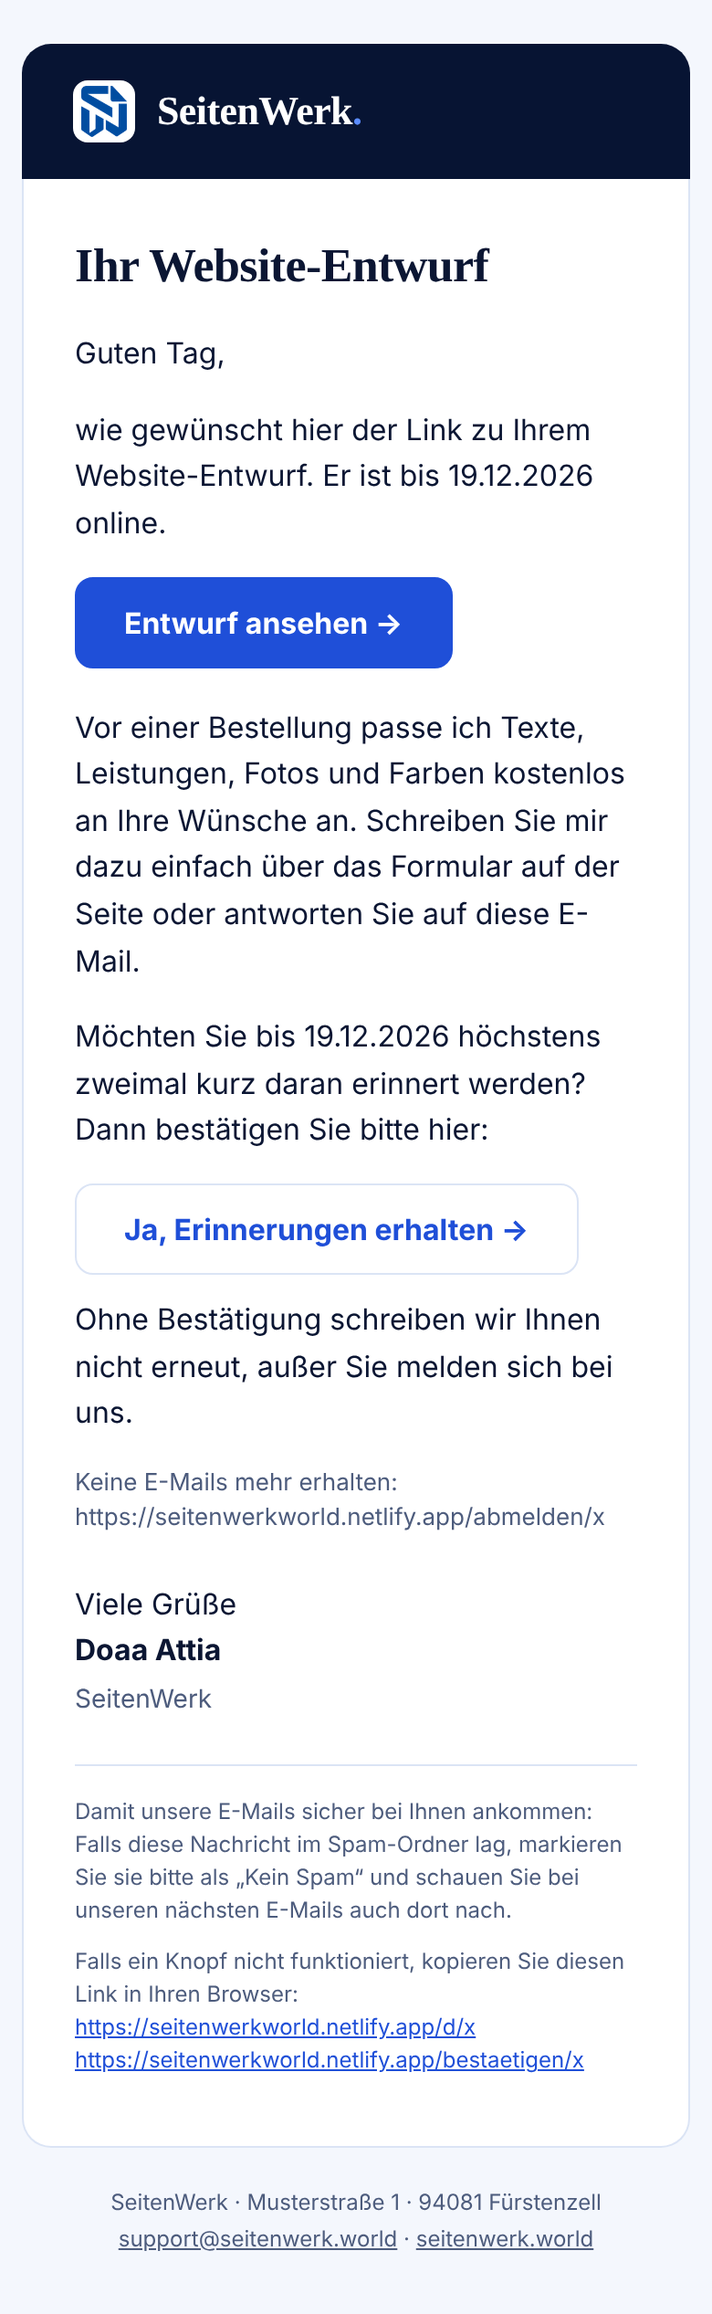
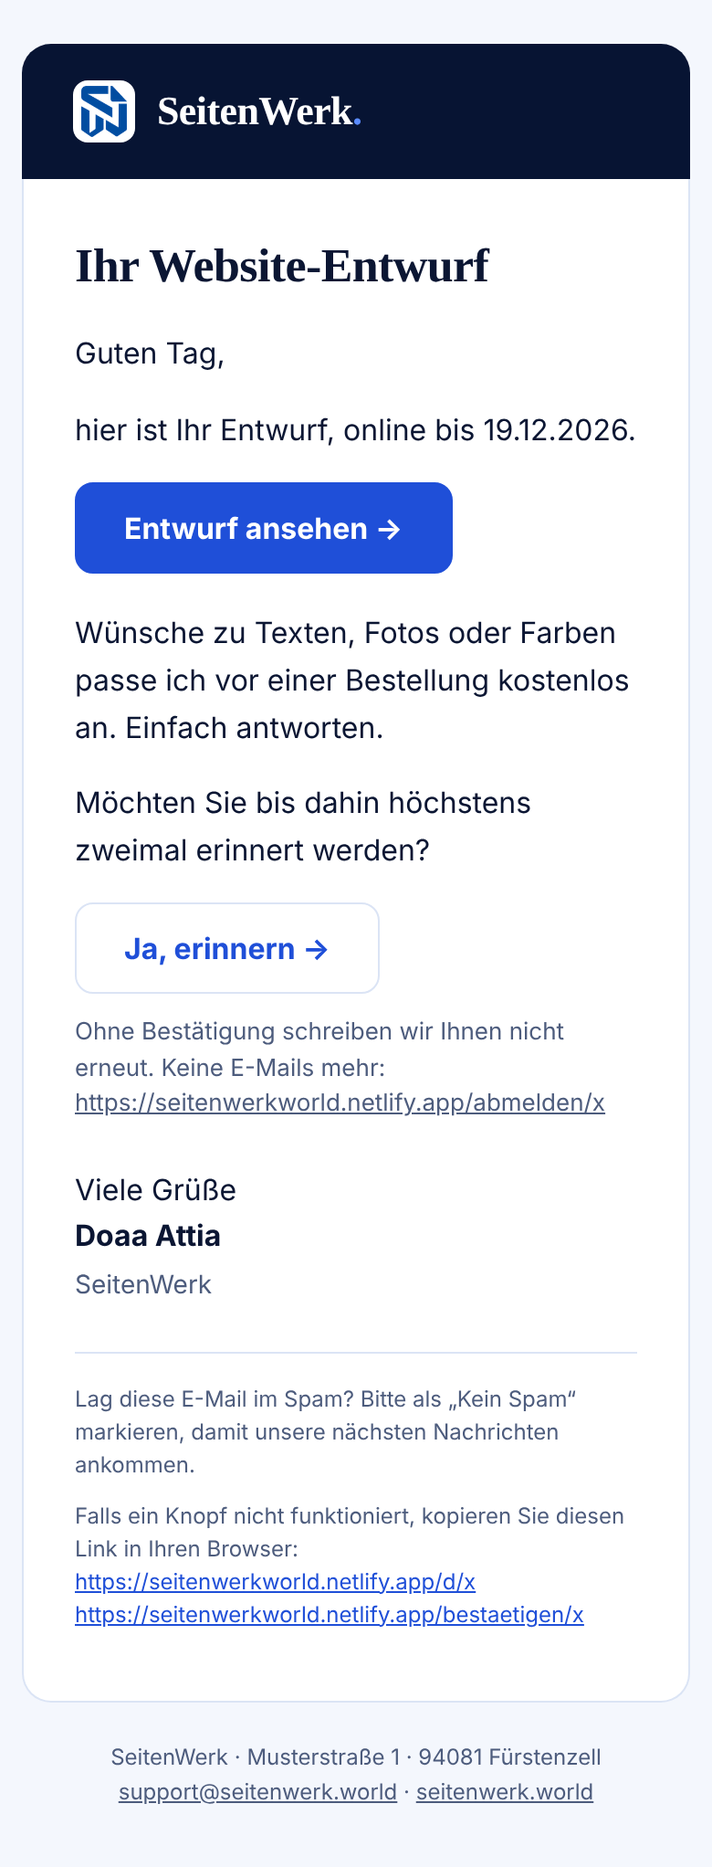
E-Mails deutlich kürzer, Vertragsangaben knapp im Kasten [skip ci] [skip netlify]
Claude-Session: https://claude.ai/code/session_011b6YmAwVYdQU7Uku4m3FhJ

diff --git a/packages/core/src/emails/templates.ts b/packages/core/src/emails/templates.ts
@@ -78,8 +78,7 @@ function signatureText(cfg: AppConfig): string {
   return ['Viele Grüße', s.name, '', '--', s.company, `${s.street}, ${s.postalCode} ${s.city}`, s.email, s.website].join('\n');
 }
 
-export const SPAM_HINT =
-  'Damit unsere E-Mails sicher bei Ihnen ankommen: Falls diese Nachricht im Spam-Ordner lag, markieren Sie sie bitte als „Kein Spam“ und schauen Sie bei unseren nächsten E-Mails auch dort nach.';
+export const SPAM_HINT = 'Lag diese E-Mail im Spam? Bitte als „Kein Spam“ markieren, damit unsere nächsten Nachrichten ankommen.';
 
 export function renderEmail(
   cfg: AppConfig,
@@ -206,63 +205,53 @@ export function orderConfirmationEmail(
     v4?: { tier: 'basis' | 'care_plus' | 'komplett'; monthlyCents: number; billingMode?: 'saved_mandate' | 'manual_checkout' };
   },
 ): EmailContent {
+  // 19.11.2026 (Betreiber: „so viel Text“): kurz, aber alle Vertragsangaben (Preis, Start, Laufzeit, Garantie) bleiben
   const p = cfg.pricing;
-  const terms: Block[] = [];
   const komplett = d.v4?.tier === 'komplett';
-  const box = (t: string): Block => ({ box: t });
+  const terms: string[] = [];
   if (d.v4 && komplett)
-    terms.push(box(
-      `Ihr Tarif SeitenWerk Komplett: Es wurde nichts abgebucht. ${formatEuro(d.v4.monthlyCents)} pro Monat, die erste Abbuchung erfolgt 7 Tage nach Ihrer Bestellung über das bei Stripe gespeicherte Zahlungsmittel. Mindestlaufzeit 12 Monate ab der ersten Abbuchung, danach monatlich kündbar. Für jede Abbuchung erhalten Sie eine eigene Rechnung.`),
+    terms.push(
+      `SeitenWerk Komplett: heute 0 €. ${formatEuro(d.v4.monthlyCents)}/Monat, erste Abbuchung 7 Tage nach Bestellung über Ihr bei Stripe hinterlegtes Zahlungsmittel. 12 Monate Laufzeit ab der ersten Abbuchung, danach monatlich kündbar.`,
     );
   else if (d.v4)
-    terms.push(box(
-      `Einmalige Einrichtung: ${d.amount}. Ihr gewählter Tarif ${v4TierLabel(d.v4.tier)} kostet insgesamt ${formatEuro(d.v4.monthlyCents)} pro Monat. ${d.v4.billingMode === 'saved_mandate' ? 'Das Monatsabo startet automatisch nach bestätigtem Go-Live über das ausdrücklich vereinbarte, bei Stripe gespeicherte Zahlungsmittel.' : 'Das Monatsabo schließen Sie erst nach bestätigtem Go-Live gesondert ab.'} Keine Monatsabbuchung vor Go-Live und keine zwölfmonatige Mindestbindung.`),
+    terms.push(
+      `${v4TierLabel(d.v4.tier)}: ${d.amount} einmalig, danach ${formatEuro(d.v4.monthlyCents)}/Monat ab Go-Live${d.v4.billingMode === 'saved_mandate' ? ' (automatisch über Ihr bei Stripe hinterlegtes Zahlungsmittel)' : ' (das Abo schließen Sie nach Go-Live gesondert ab)'}. Keine Abbuchung vor Go-Live, monatlich kündbar.`,
     );
   if (d.monthlyMinTermEnds)
-    terms.push(box(
-      `Sie zahlen ${d.amount} pro Monat, die Mindestlaufzeit endet am ${d.monthlyMinTermEnds}. Danach kostet „${p.subscriptionName}“ automatisch nur noch ${formatEuro(p.subscriptionCents)} pro Monat und ist monatlich kündbar. Für jede Rate erhalten Sie eine eigene Rechnung.`),
+    terms.push(
+      `${d.amount}/Monat bis ${d.monthlyMinTermEnds} (Mindestlaufzeit), danach ${formatEuro(p.subscriptionCents)}/Monat, monatlich kündbar.`,
     );
   if (d.guaranteeUntil)
-    terms.push(box(
-      `Zufriedenheitsgarantie: Sind Sie nicht zufrieden, antworten Sie bis zum ${d.guaranteeUntil} auf diese E-Mail – Sie bekommen Ihr Geld zurück${d.monthlyMinTermEnds ? ' und der Vertrag endet' : ''}.`),
-    );
+    terms.push(`Nicht zufrieden? Bis ${d.guaranteeUntil} antworten – Sie bekommen Ihr Geld zurück.`);
   return renderEmail(cfg, {
     subject: komplett
       ? `Ihre Bestellung: SeitenWerk Komplett für ${d.company}`
       : `Ihre Bestellung: ${d.v4 ? `SeitenWerk ${v4TierLabel(d.v4.tier)} – Einrichtung` : d.monthlyMinTermEnds ? p.monthlyName : p.packageName} für ${d.company} (Rechnung ${d.invoiceNumber})`,
     heading: 'Danke für Ihre Bestellung',
-    preheader: d.prepared
-      ? 'Ihre Angaben sind übernommen – als Nächstes kommt Ihre Vorschau.'
-      : 'Nächster Schritt: Ihre Angaben für die Website eintragen (ca. 10 Minuten).',
+    preheader: d.prepared ? 'Als Nächstes kommt Ihre Vorschau.' : 'Nächster Schritt: Ihre Angaben eintragen (ca. 10 Minuten).',
     name: d.name,
     blocks: [
       komplett
-        ? 'vielen Dank für Ihre Bestellung – Ihr Zahlungsmittel ist hinterlegt. Bezahlt wird erst, wenn Ihre fertige Website online ist.'
-        : `vielen Dank für Ihre Bestellung – die Zahlung über ${d.amount} ist eingegangen. Die Rechnung ${d.invoiceNumber} finden Sie im Anhang.`,
-      ...terms,
+        ? 'Ihr Zahlungsmittel ist hinterlegt.'
+        : `Ihre Zahlung über ${d.amount} ist eingegangen. Die Rechnung ${d.invoiceNumber} liegt im Anhang.`,
+      ...(terms.length ? [{ box: terms.join('\n') }] : []),
       d.prepared
-        ? 'Ihre vor der Zahlung gespeicherte Einrichtung wurde übernommen: Betriebsdaten, Texte, Bilder, Anfrage-Empfänger und Wunschdomain. Wir bereiten die Vorschau vor; veröffentlicht wird erst nach Ihrer Freigabe.'
-        : 'Damit Ihre Website online gehen kann, brauchen wir noch ein paar Angaben von Ihnen: Impressum, gegebenenfalls Logo und Fotos, Ihre Leistungen und Öffnungszeiten. Das dauert etwa 10 Minuten.',
+        ? 'Ihre gespeicherten Angaben sind übernommen. Wir bereiten jetzt Ihre Vorschau vor.'
+        : 'Jetzt fehlen nur noch Ihre Angaben (Impressum, Leistungen, Öffnungszeiten). Dauer: etwa 10 Minuten.',
       {
         button: {
           href: d.onboardingUrl,
-          label: d.prepared ? 'Einrichtung und Vorschau ansehen' : 'Angaben für die Website eintragen',
+          label: d.prepared ? 'Einrichtung ansehen' : 'Angaben eintragen',
         },
       },
-      'So geht es weiter:',
       {
         steps: [
-          d.prepared
-            ? 'Ihre gespeicherten Angaben bilden die Grundlage für die Fertigstellung.'
-            : 'Sie tragen Ihre Angaben ein (der Link bleibt gültig, Sie können jederzeit weitermachen).',
-          'Wir passen die Website an und schicken Ihnen eine Vorschau.',
-          `Sie geben die Vorschau frei oder wünschen Änderungen (bis zu ${cfg.onboarding.includedChangeRounds} Runden inklusive).`,
-          d.domain
-            ? `Wir registrieren ${d.domain} auf Ihren Namen und schalten die Website live.`
-            : 'Wir registrieren Ihre Domain auf Ihren Namen und schalten die Website live.',
+          d.prepared ? 'Wir stellen die Website fertig' : 'Sie tragen Ihre Angaben ein',
+          `Sie prüfen die Vorschau (${cfg.onboarding.includedChangeRounds} Änderungsrunden inklusive)`,
+          d.domain ? `Wir schalten ${d.domain} live` : 'Wir schalten Ihre Website live',
         ],
       },
-      'Bei Fragen antworten Sie einfach auf diese E-Mail.',
+      'Fragen? Einfach auf diese E-Mail antworten.',
     ],
   });
 }
@@ -273,10 +262,9 @@ export function paymentFailedEmail(cfg: AppConfig, d: { name: string; retryUrl: 
     heading: 'Zahlung nicht abgeschlossen',
     name: d.name,
     blocks: [
-      'leider ist Ihre Zahlung für das Website-Paket nicht bei uns angekommen (zum Beispiel weil die Lastschrift zurückgegeben wurde). Es wurde nichts abgebucht, das Sie nicht zurückerhalten.',
-      'Wenn Sie die Website weiterhin möchten, können Sie die Bestellung hier erneut abschließen:',
-      { button: { href: d.retryUrl, label: 'Bestellung erneut abschließen' } },
-      'Haben Sie Fragen? Antworten Sie einfach auf diese E-Mail.',
+      'leider ist Ihre Zahlung nicht bei uns angekommen, zum Beispiel weil die Lastschrift zurückgegeben wurde. Sie verlieren dabei kein Geld.',
+      { button: { href: d.retryUrl, label: 'Erneut bestellen' } },
+      'Fragen? Einfach auf diese E-Mail antworten.',
     ],
   });
 }
@@ -290,10 +278,7 @@ export function recurringInvoiceEmail(
     subject: `Ihre Rechnung ${d.invoiceNumber}${d.domain ? ` für ${d.domain}` : ''}`,
     heading: 'Zahlung eingegangen',
     name: d.name,
-    blocks: [
-      `vielen Dank – die Zahlung über ${d.amount} für den Zeitraum ${d.period} ist eingegangen. Die Rechnung ${d.invoiceNumber} finden Sie im Anhang.`,
-      'Bei Fragen antworten Sie einfach auf diese E-Mail.',
-    ],
+    blocks: [`danke! ${d.amount} für ${d.period} sind eingegangen. Die Rechnung ${d.invoiceNumber} liegt im Anhang.`],
   });
 }
 
@@ -303,16 +288,12 @@ export function subscriptionPaymentFailedEmail(
   d: { name: string; amount: string; payUrl: string | null; final: boolean; domain: string | null },
 ): EmailContent {
   const blocks: Block[] = [
-    `leider konnte die Monatsrate über ${d.amount}${d.domain ? ` für ${d.domain}` : ''} nicht eingezogen werden – zum Beispiel weil die Karte abgelaufen ist oder die Lastschrift zurückgegeben wurde.`,
+    `die Monatsrate über ${d.amount}${d.domain ? ` für ${d.domain}` : ''} konnte nicht eingezogen werden.`,
     d.final
-      ? 'Wir haben es mehrmals versucht. Damit keine weiteren Kosten entstehen, ist Ihre Website vorübergehend pausiert. Sobald die Zahlung eingegangen ist, ist sie automatisch wieder online.'
-      : 'Wir versuchen es in den nächsten Tagen automatisch noch einmal. Ihre Website bleibt bis dahin online.',
+      ? 'Ihre Website ist deshalb vorübergehend pausiert. Sobald die Zahlung da ist, ist sie automatisch wieder online.'
+      : 'Wir versuchen es in den nächsten Tagen automatisch noch einmal. Ihre Website bleibt online.',
   ];
-  if (d.payUrl)
-    blocks.push('Sie können die Rate auch direkt bezahlen oder Ihr Zahlungsmittel aktualisieren:', {
-      button: { href: d.payUrl, label: 'Rate bezahlen' },
-    });
-  blocks.push('Haben Sie Fragen? Antworten Sie einfach auf diese E-Mail.');
+  if (d.payUrl) blocks.push({ button: { href: d.payUrl, label: 'Rate bezahlen' } });
   return renderEmail(cfg, {
     subject: d.final ? 'Ihre Website ist pausiert – Zahlung ausstehend' : 'Ihre Monatsrate konnte nicht eingezogen werden',
     heading: d.final ? 'Ihre Website ist pausiert' : 'Monatsrate nicht eingezogen',
@@ -327,15 +308,13 @@ export function dunningReminderEmail(
   d: { name: string; stage: 1 | 2; amount: string; domain: string | null; pauseOn: string | null; payUrl: string | null },
 ): EmailContent {
   const blocks: Block[] = [
-    d.stage === 1
-      ? `die Monatsrate über ${d.amount}${d.domain ? ` für ${d.domain}` : ''} konnte auch nach mehreren automatischen Versuchen nicht eingezogen werden.`
-      : `wir erinnern noch einmal an die offene Monatsrate über ${d.amount}${d.domain ? ` für ${d.domain}` : ''}.`,
+    `${d.stage === 1 ? 'die' : 'noch einmal zur'} offene${d.stage === 1 ? '' : 'n'} Monatsrate über ${d.amount}${d.domain ? ` für ${d.domain}` : ''}${d.stage === 1 ? ' konnte nicht eingezogen werden.' : '.'}`,
     d.pauseOn
-      ? `Bitte begleichen Sie die Rate bis zum ${d.pauseOn}. Ist sie bis dahin nicht eingegangen, müssen wir Ihre Website vorübergehend pausieren.`
-      : 'Bitte begleichen Sie die Rate so bald wie möglich.',
+      ? `Bitte bis ${d.pauseOn} bezahlen, sonst müssen wir Ihre Website vorübergehend pausieren.`
+      : 'Bitte bezahlen Sie die Rate so bald wie möglich.',
   ];
   if (d.payUrl) blocks.push({ button: { href: d.payUrl, label: 'Rate bezahlen' } });
-  blocks.push('Gibt es ein Problem mit der Zahlung? Antworten Sie einfach auf diese E-Mail – wir finden eine Lösung.');
+  blocks.push('Gibt es ein Problem? Einfach antworten, wir finden eine Lösung.');
   return renderEmail(cfg, {
     subject: d.stage === 1 ? 'Zahlungserinnerung: offene Monatsrate' : 'Zweite Zahlungserinnerung: offene Monatsrate',
     heading: 'Zahlungserinnerung',
@@ -354,12 +333,11 @@ export function guaranteeRefundEmail(
     heading: 'Rückabwicklung bestätigt',
     name: d.name,
     blocks: [
-      `schade, dass die Website nicht gepasst hat. Wie versprochen erstatten wir Ihnen ${d.amount}${d.monthly ? ' und haben den Vertrag beendet – es werden keine weiteren Raten abgebucht' : ''}. Die Stornorechnung folgt in einer separaten E-Mail.`,
-      'Die Website ist offline genommen.',
+      `wie versprochen erstatten wir Ihnen ${d.amount}${d.monthly ? ', der Vertrag ist beendet' : ''}. Die Website ist offline. Die Stornorechnung kommt separat.`,
       d.domainRegistered
-        ? `Die Domain ${d.domainRegistered} ist auf Ihren Namen registriert. Wir übertragen sie Ihnen gern kostenlos: Antworten Sie einfach auf diese E-Mail, dann schicken wir Ihnen den Auth-Code für den Umzug zu einem Anbieter Ihrer Wahl. Möchten Sie sie nicht behalten, verlängern wir sie nicht${d.domainExpires ? ` – sie läuft dann am ${d.domainExpires} aus` : ''}.`
-        : 'Eine Domain wurde noch nicht registriert, es bleibt also nichts zu tun.',
-      'Vielen Dank, dass Sie es ausprobiert haben.',
+        ? `Die Domain ${d.domainRegistered} gehört Ihnen. Möchten Sie sie behalten, antworten Sie einfach – wir schicken den Code für den Umzug. Sonst läuft sie${d.domainExpires ? ` am ${d.domainExpires}` : ''} aus.`
+        : 'Es wurde noch keine Domain registriert, Sie müssen nichts tun.',
+      'Danke, dass Sie es ausprobiert haben.',
     ],
   });
 }
@@ -375,10 +353,10 @@ export function demoReminderEmail(
     preheader: `Noch bis ${d.expiresLabel} ansehen.`,
     name: d.name ?? '',
     blocks: [
-      `vielen Dank für Ihre Nachricht zu Ihrem Website-Entwurf. Kurz zur Erinnerung: Der Entwurf ist noch bis ${d.expiresLabel} online, danach wird er automatisch gelöscht.`,
+      `kurze Erinnerung: Ihr Website-Entwurf ist noch bis ${d.expiresLabel} online.`,
       { button: { href: d.demoUrl, label: 'Entwurf ansehen' } },
-      'Haben Sie noch Fragen? Antworten Sie einfach auf diese E-Mail. Dies ist die einzige Erinnerung – wir schreiben Ihnen danach nicht mehr.',
-      { small: `Keine Erinnerungen mehr erhalten: ${d.unsubscribeUrl}` },
+      'Das ist die einzige Erinnerung, danach schreiben wir Ihnen nicht mehr.',
+      { small: `Keine Erinnerungen mehr: ${d.unsubscribeUrl}` },
     ],
   });
 }
@@ -391,15 +369,14 @@ export function optinLinkEmail(
   return renderEmail(cfg, {
     subject: `Ihr Website-Entwurf für ${d.businessName}`,
     heading: 'Ihr Website-Entwurf',
-    preheader: `Ihr Link zum Entwurf für ${d.businessName} – online bis ${d.expiresLabel}.`,
+    preheader: `Online bis ${d.expiresLabel}.`,
     blocks: [
-      `wie gewünscht hier der Link zu Ihrem Website-Entwurf. Er ist bis ${d.expiresLabel} online.`,
+      `hier ist Ihr Entwurf, online bis ${d.expiresLabel}.`,
       { button: { href: d.demoUrl, label: 'Entwurf ansehen' } },
-      'Vor einer Bestellung passe ich Texte, Leistungen, Fotos und Farben kostenlos an Ihre Wünsche an. Schreiben Sie mir dazu einfach über das Formular auf der Seite oder antworten Sie auf diese E-Mail.',
-      `Möchten Sie bis ${d.expiresLabel} höchstens zweimal kurz daran erinnert werden? Dann bestätigen Sie bitte hier:`,
-      { button: { href: d.confirmUrl, label: 'Ja, Erinnerungen erhalten', secondary: true } },
-      'Ohne Bestätigung schreiben wir Ihnen nicht erneut, außer Sie melden sich bei uns.',
-      { small: `Keine E-Mails mehr erhalten: ${d.unsubscribeUrl}` },
+      'Wünsche zu Texten, Fotos oder Farben passe ich vor einer Bestellung kostenlos an. Einfach antworten.',
+      'Möchten Sie bis dahin höchstens zweimal erinnert werden?',
+      { button: { href: d.confirmUrl, label: 'Ja, erinnern', secondary: true } },
+      { small: `Ohne Bestätigung schreiben wir Ihnen nicht erneut. Keine E-Mails mehr: ${d.unsubscribeUrl}` },
     ],
   });
 }
@@ -413,11 +390,10 @@ export function optinFollowupEmail(
     subject: 'Passt Ihr Website-Entwurf so?',
     heading: 'Passt Ihr Entwurf so?',
     blocks: [
-      `vor ein paar Tagen haben Sie sich den Link zu Ihrem Website-Entwurf schicken lassen. Er ist noch bis ${d.expiresLabel} online.`,
-      'Falls noch etwas nicht stimmt, zum Beispiel Leistungen, Texte, Fotos oder Farben, passe ich das vor einer Bestellung kostenlos an. Ein kurzer Satz genügt.',
+      `Ihr Entwurf ist noch bis ${d.expiresLabel} online. Soll noch etwas anders sein? Ein kurzer Satz genügt, ich passe es vor einer Bestellung kostenlos an.`,
       { button: { href: d.wishUrl, label: 'Wunsch schicken' } },
       { button: { href: d.demoUrl, label: 'Entwurf ansehen', secondary: true } },
-      { small: `Keine E-Mails mehr erhalten: ${d.unsubscribeUrl}` },
+      { small: `Keine E-Mails mehr: ${d.unsubscribeUrl}` },
     ],
   });
 }
@@ -428,8 +404,7 @@ export function refundEmail(cfg: AppConfig, d: { name: string; amount: string; c
     heading: 'Erstattung veranlasst',
     name: d.name,
     blocks: [
-      `wir haben ${d.amount} an Sie erstattet. Je nach Zahlungsart sehen Sie den Betrag in wenigen Tagen auf Ihrem Konto bzw. Ihrer Kartenabrechnung.`,
-      `Die Stornorechnung ${d.cancellationNumber} finden Sie im Anhang.`,
+      `wir haben ${d.amount} an Sie erstattet. Je nach Zahlungsart sehen Sie den Betrag in wenigen Tagen. Die Stornorechnung ${d.cancellationNumber} liegt im Anhang.`,
     ],
   });
 }
@@ -438,23 +413,18 @@ export function renewalReminderEmail(
   cfg: AppConfig,
   d: { name: string; domain: string | null; hostingUntil: string; subscriptionUrl: string | null },
 ): EmailContent {
-  const price = `${formatEuro(cfg.pricing.subscriptionCents)} pro Monat`;
-  const blocks: Block[] = [
-    `das im Website-Paket enthaltene Hosting für ${d.domain ?? 'Ihre Website'} läuft am ${d.hostingUntil} aus.`,
-  ];
+  const price = `${formatEuro(cfg.pricing.subscriptionCents)}/Monat`;
+  const blocks: Block[] = [`das Hosting für ${d.domain ?? 'Ihre Website'} ist bis ${d.hostingUntil} bezahlt.`];
   if (d.subscriptionUrl) {
-    blocks.push(
-      `Wenn Ihre Website danach online bleiben soll, können Sie „${cfg.pricing.subscriptionName}“ für ${price} buchen (monatlich kündbar). Hosting, SSL, Domain und kleine Textänderungen sind enthalten.`,
-      { button: { href: d.subscriptionUrl, label: `${cfg.pricing.subscriptionName} buchen` } },
-    );
+    blocks.push(`Soll Ihre Website online bleiben? „${cfg.pricing.subscriptionName}“ kostet ${price}, monatlich kündbar.`, {
+      button: { href: d.subscriptionUrl, label: `${cfg.pricing.subscriptionName} buchen` },
+    });
   } else {
     blocks.push(
-      `Wenn Ihre Website danach online bleiben soll, antworten Sie einfach auf diese E-Mail. Wir verlängern dann „${cfg.pricing.subscriptionName}“ für ${price} (monatlich kündbar).`,
+      `Soll Ihre Website online bleiben? Antworten Sie einfach, dann verlängern wir „${cfg.pricing.subscriptionName}“ für ${price} (monatlich kündbar).`,
     );
   }
-  blocks.push(
-    'Möchten Sie nicht verlängern, müssen Sie nichts tun. Die Domain gehört Ihnen – auf Wunsch geben wir sie für einen Umzug zu einem anderen Anbieter frei.',
-  );
+  blocks.push('Kein Interesse? Dann müssen Sie nichts tun. Die Domain gehört Ihnen.');
   return renderEmail(cfg, {
     subject: `Ihr Hosting für ${d.domain ?? 'Ihre Website'} läuft am ${d.hostingUntil} aus`,
     heading: 'Ihr Hosting läuft bald aus',
@@ -480,15 +450,13 @@ export function previewReadyEmail(
   return renderEmail(cfg, {
     subject: d.firstVersion ? 'Ihre Website-Vorschau ist fertig' : 'Ihre geänderte Website-Vorschau ist fertig',
     heading: d.firstVersion ? 'Ihre Vorschau ist fertig' : 'Ihre neue Vorschau ist fertig',
-    preheader: 'Ansehen, freigeben oder Änderungen wünschen – mit einem Klick.',
+    preheader: 'Ansehen und mit einem Klick freigeben.',
     name: d.name,
     blocks: [
-      d.firstVersion
-        ? 'Ihre Website ist fertig vorbereitet – mit Ihren Angaben, Texten und Bildern. Bitte schauen Sie sich die Vorschau in Ruhe an.'
-        : 'wir haben Ihre Änderungswünsche eingearbeitet. Bitte schauen Sie sich die neue Vorschau an.',
+      d.firstVersion ? 'Ihre Website ist fertig vorbereitet.' : 'Ihre Änderungswünsche sind eingearbeitet.',
       ...(d.summary ? [d.summary] : []),
       { button: { href: d.previewUrl, label: 'Vorschau ansehen' } },
-      `Passt alles, geben Sie die Seite mit einem Klick frei – dann registrieren wir Ihre Domain und schalten die Website live. Möchten Sie noch etwas ändern, beschreiben Sie es einfach auf der Vorschauseite (noch ${d.roundsLeft} Änderungsrunde${d.roundsLeft === 1 ? '' : 'n'} inklusive).`,
+      `Passt alles? Mit einem Klick freigeben, dann geht sie live. Sonst Änderungen direkt dort eintragen (noch ${d.roundsLeft} Runde${d.roundsLeft === 1 ? '' : 'n'} inklusive).`,
     ],
   });
 }
@@ -510,20 +478,16 @@ export function liveHandoverEmail(
     preheader: `Ab sofort erreichbar: ${d.domain ?? d.url}`,
     name: d.name,
     blocks: [
-      `Ihre Website ist ab sofort online: ${d.url}`,
       { button: { href: d.url, label: 'Website ansehen' } },
       {
         checks: [
-          d.domain
-            ? `Die Domain ${d.domain} ist auf Sie registriert und gehört Ihnen.`
-            : 'Ihre Website ist unter der oben genannten Adresse erreichbar.',
-          `Nachrichten aus dem Kontaktformular gehen an ${d.formTarget}.`,
+          d.domain ? `Die Domain ${d.domain} gehört Ihnen` : `Erreichbar unter ${d.url}`,
+          `Anfragen aus dem Formular gehen an ${d.formTarget}`,
           d.monthlyOffer
             ? d.monthlyOffer.automatic
-              ? `Ihr gewählter Monatstarif von insgesamt ${formatEuro(d.monthlyOffer.amountCents)} wird nach bestätigtem Go-Live über das vereinbarte Zahlungsmittel gestartet. Zahlungsstatus, Tarifwechsel und Kündigung finden Sie über den Verwaltungslink. Die Vorschauzeit bleibt unberechnet.`
-              : `Ihr Monatstarif kostet insgesamt ${formatEuro(d.monthlyOffer.amountCents)}. Bitte bestätigen Sie jetzt den separaten Aboabschluss; erst damit beginnt die monatliche Zahlung. Es gibt keine rückwirkende Abbuchung für die Vorschauzeit.`
-            : `Hosting und SSL-Verschlüsselung sind bis ${d.hostingUntil} enthalten. Wir erinnern Sie rechtzeitig vor Ablauf.`,
-          'Impressum und Datenschutzerklärung stammen aus Ihren Angaben – bitte halten Sie sie aktuell und geben Sie uns Bescheid, wenn sich etwas ändert.',
+              ? `Monatstarif ${formatEuro(d.monthlyOffer.amountCents)} startet jetzt automatisch`
+              : `Monatstarif ${formatEuro(d.monthlyOffer.amountCents)}: bitte unten bestätigen, erst dann wird abgebucht`
+            : `Hosting und SSL bis ${d.hostingUntil} inklusive`,
         ],
       },
       ...(d.monthlyOffer
@@ -537,8 +501,7 @@ export function liveHandoverEmail(
             },
           ]
         : []),
-      'Kleine Textänderungen oder neue Öffnungszeiten? Antworten Sie einfach auf diese E-Mail.',
-      'Vielen Dank für Ihr Vertrauen!',
+      'Änderungen am Impressum oder neue Öffnungszeiten? Einfach antworten. Danke für Ihr Vertrauen!',
     ],
   });
 }

diff --git a/packages/core/src/services/support.ts b/packages/core/src/services/support.ts
@@ -304,8 +304,8 @@ export async function processSupportMessage(id: string): Promise<{ status: strin
         subject: 'Bestätigung: Wir schreiben Ihnen nicht mehr',
         heading: 'Wir schreiben Ihnen nicht mehr',
         blocks: [
-          'vielen Dank für Ihre Nachricht. Wir haben Ihren Widerspruch umgesetzt: Sie erhalten von uns keine weitere Post, Ihr Website-Entwurf und die zugehörigen Daten werden gelöscht.',
-          'Damit wir Sie auch künftig nicht erneut anschreiben, speichern wir nur einen nicht rückrechenbaren Prüfwert (Hash) Ihres Betriebs.',
+          'erledigt: Sie bekommen keine Post mehr von uns. Ihr Website-Entwurf und Ihre Daten werden gelöscht.',
+          'Damit das so bleibt, speichern wir nur einen nicht rückrechenbaren Prüfwert (Hash) Ihres Betriebs.',
         ],
       });
       try {

diff --git a/packages/core/src/services/sites.ts b/packages/core/src/services/sites.ts
@@ -755,9 +755,9 @@ export async function sendOnboardingReminders(now = new Date()): Promise<number>
       heading: 'Fast fertig – nur noch Ihre Angaben',
       name: c.contactName,
       blocks: [
-        'Ihre Website ist fast fertig – es fehlen nur noch Ihre Angaben (Impressum, Leistungen, Öffnungszeiten). Das dauert etwa 10 Minuten, Sie können jederzeit zwischenspeichern.',
+        'es fehlen nur noch Ihre Angaben (Impressum, Leistungen, Öffnungszeiten). Dauer: etwa 10 Minuten.',
         { button: { href: appUrl(`/onboarding/${c.accessToken}`), label: 'Angaben eintragen' } },
-        'Brauchen Sie Hilfe? Antworten Sie einfach auf diese E-Mail.',
+        'Hilfe nötig? Einfach antworten.',
       ],
     });
     await sendTransactionalEmail({
